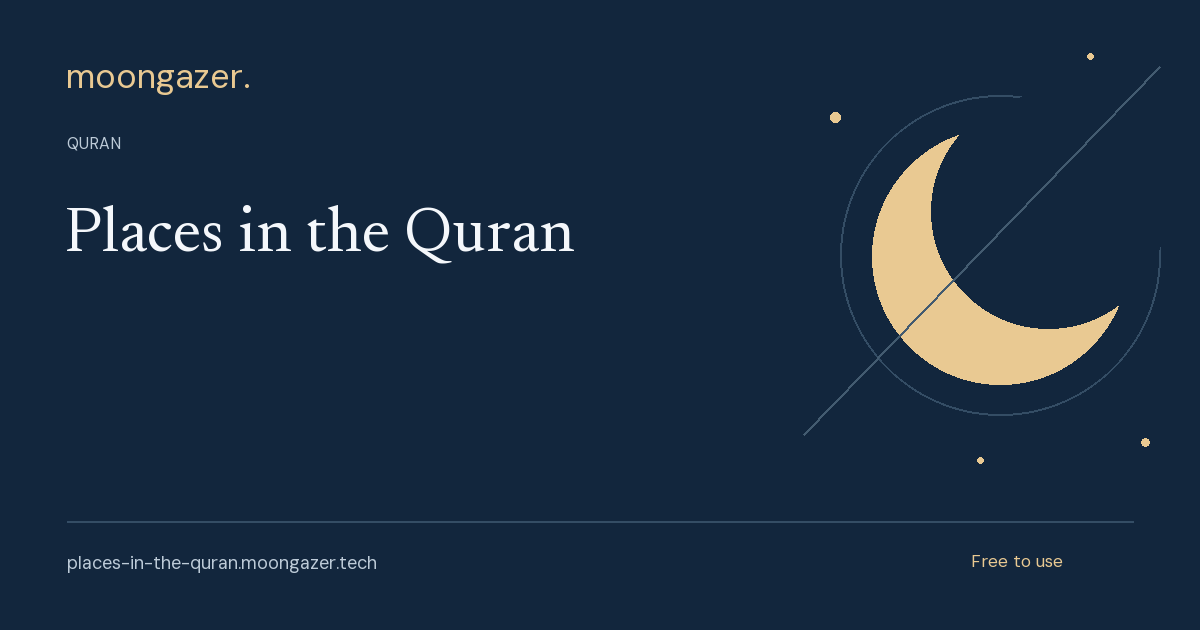
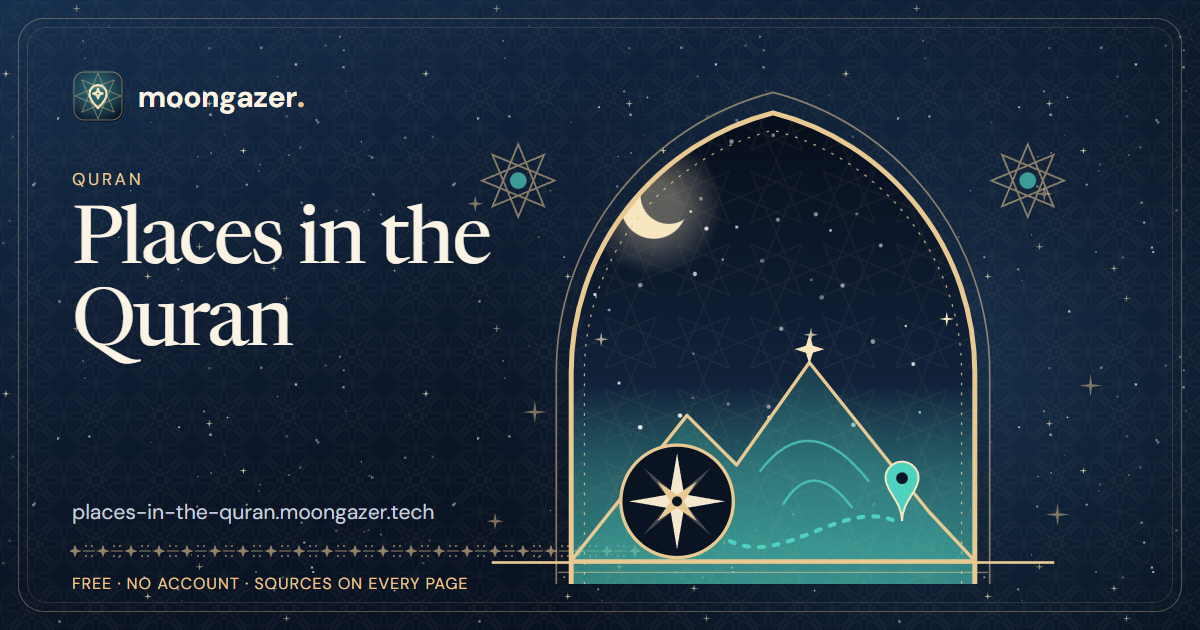
Design.04: social cards from the art system
18 cards rendered in headless Chrome with each scene and emblem; seo-assets.py now only converts fonts.

diff --git a/deployment/seo-assets.py b/deployment/seo-assets.py
@@ -1,9 +1,8 @@
-"""Generate local social cards and lossless WOFF2 derivatives from licensed fonts."""
+"""Generate lossless WOFF2 derivatives from licensed fonts. Social cards: _implementation/art/social-cards.mjs."""
 from pathlib import Path
 import json,sys,shutil
 ROOT=Path(__file__).resolve().parent.parent
 sys.path.insert(0,str(ROOT/'deployment/.tmp/seo-python'))
-from PIL import Image,ImageDraw,ImageFont
 from fontTools.ttLib import TTFont,woff2
 
 fonts=ROOT/'apps/guess-the-surah/public/fonts'
@@ -20,38 +19,6 @@ for name in ['dm-sans','newsreader','amiri']:
 for app in (ROOT/'apps').iterdir():
     for source in cache.glob('*.woff2'):shutil.copyfile(source,app/'public/fonts'/source.name)
 
-catalog=json.loads((ROOT/'deployment/targets.json').read_text())
-cards=[{'slug':'homepage','name':'Free Islamic learning apps','category':'Quran, Seerah & everyday learning'}]+catalog
-for card in cards:
-    image=Image.new('RGB',(1200,630),'#12263d');draw=ImageDraw.Draw(image)
-    sans=lambda size:ImageFont.truetype(str(fonts/'dm-sans.ttf'),size)
-    serif=lambda size:ImageFont.truetype(str(fonts/'newsreader.ttf'),size)
-    draw.ellipse((840,95,1160,415),outline='#344d65',width=2)
-    draw.ellipse((872,128,1128,384),fill='#e9c992')
-    draw.ellipse((931,94,1165,328),fill='#12263d')
-    draw.line((804,434,1160,66),fill='#435b70',width=2)
-    for x,y,r in [(835,117,5),(1145,442,4),(980,460,3),(1090,56,3)]:draw.ellipse((x-r,y-r,x+r,y+r),fill='#e9c992')
-    draw.text((66,54),'moongazer.',font=sans(34),fill='#e9c992')
-    draw.text((67,133),card['category'].upper(),font=sans(16),fill='#bdcbd8')
-    title=card['name'];lines=[]
-    for size in [64,60,56,52,48,44]:
-        face=serif(size);lines=[];line=''
-        for word in title.split():
-            candidate=(line+' '+word).strip()
-            if draw.textlength(candidate,font=face)>710 and line:lines.append(line);line=word
-            else:line=candidate
-        if line:lines.append(line)
-        if len(lines)<=3:break
-    assert len(lines)<=3,title
-    y=203
-    for line in lines:
-        assert draw.textlength(line,font=face)<=710,title
-        draw.text((64,y),line,font=face,fill='#f4f7fb');y+=size+14
-    draw.line((67,521,1133,521),fill='#344d65',width=2)
-    hostname='moongazer.tech' if card['slug']=='homepage' else card['slug']+'.moongazer.tech'
-    draw.text((67,551),hostname,font=sans(18),fill='#bdcbd8')
-    draw.text((971,550),'Free to use',font=sans(17),fill='#e9c992')
-    out=ROOT/'homepage/social-card.png' if card['slug']=='homepage' else ROOT/'apps'/card['slug']/'public/social-card.png'
-    image.save(out,optimize=True)
+# Social cards moved to _implementation/art/social-cards.mjs (2026-11-13 redesign); this script now only converts fonts.
 (ROOT/'deployment/evidence/seo/font-conversion.json').write_text(json.dumps(records,indent=2))
-print(json.dumps({'socialCards':len(cards),'fonts':records},indent=2))
+print(json.dumps({'fonts':records},indent=2))
